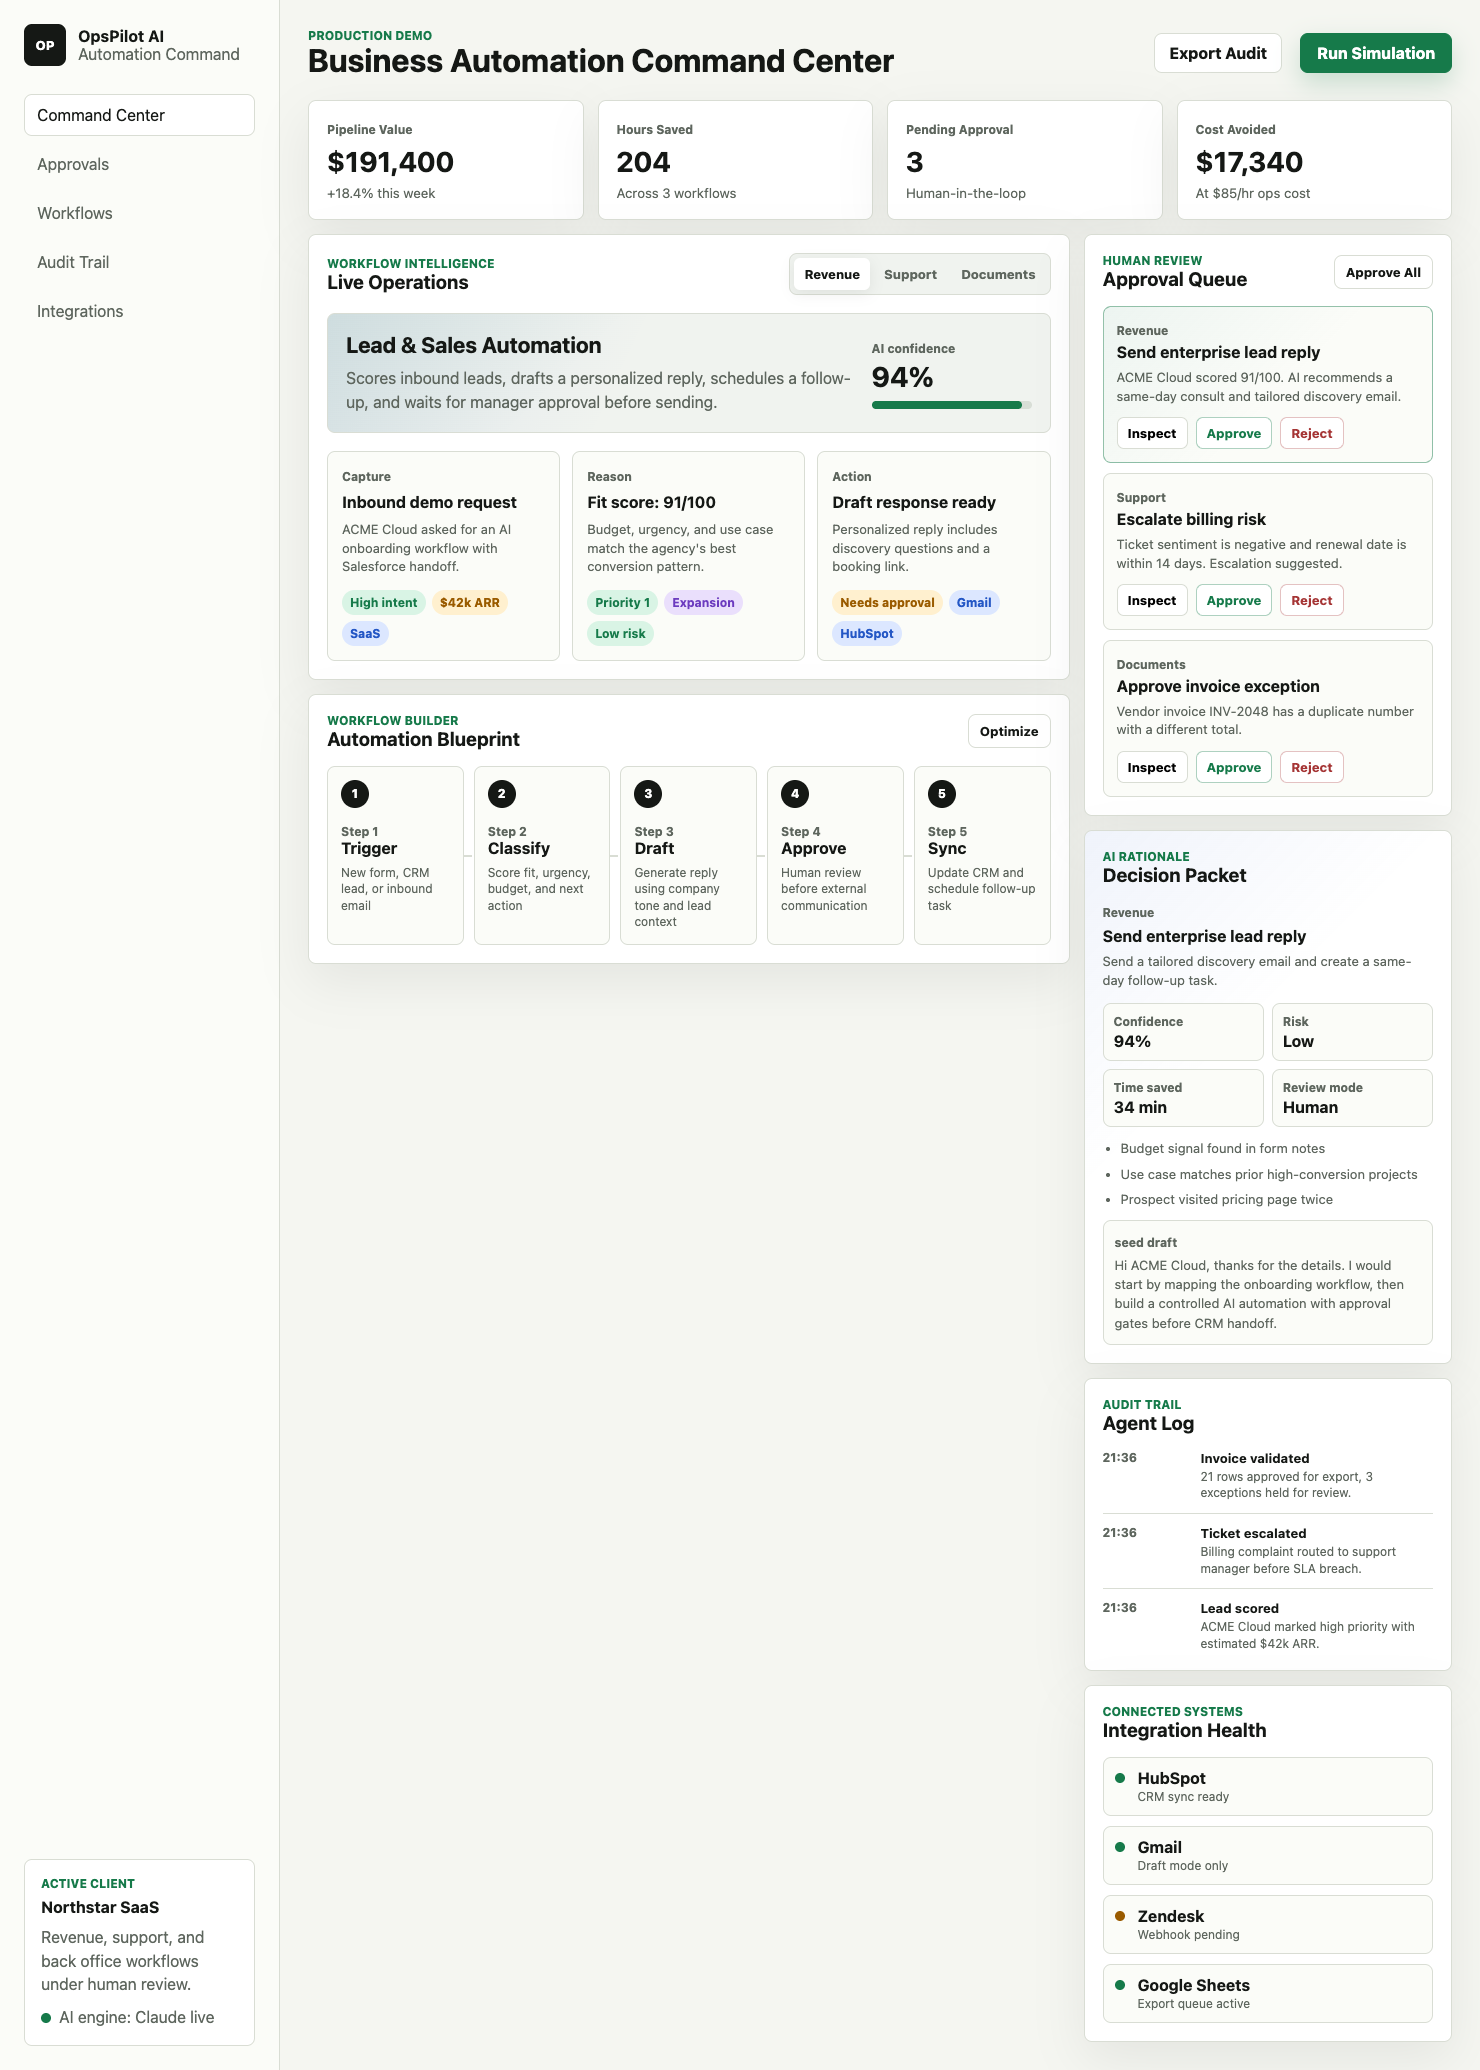
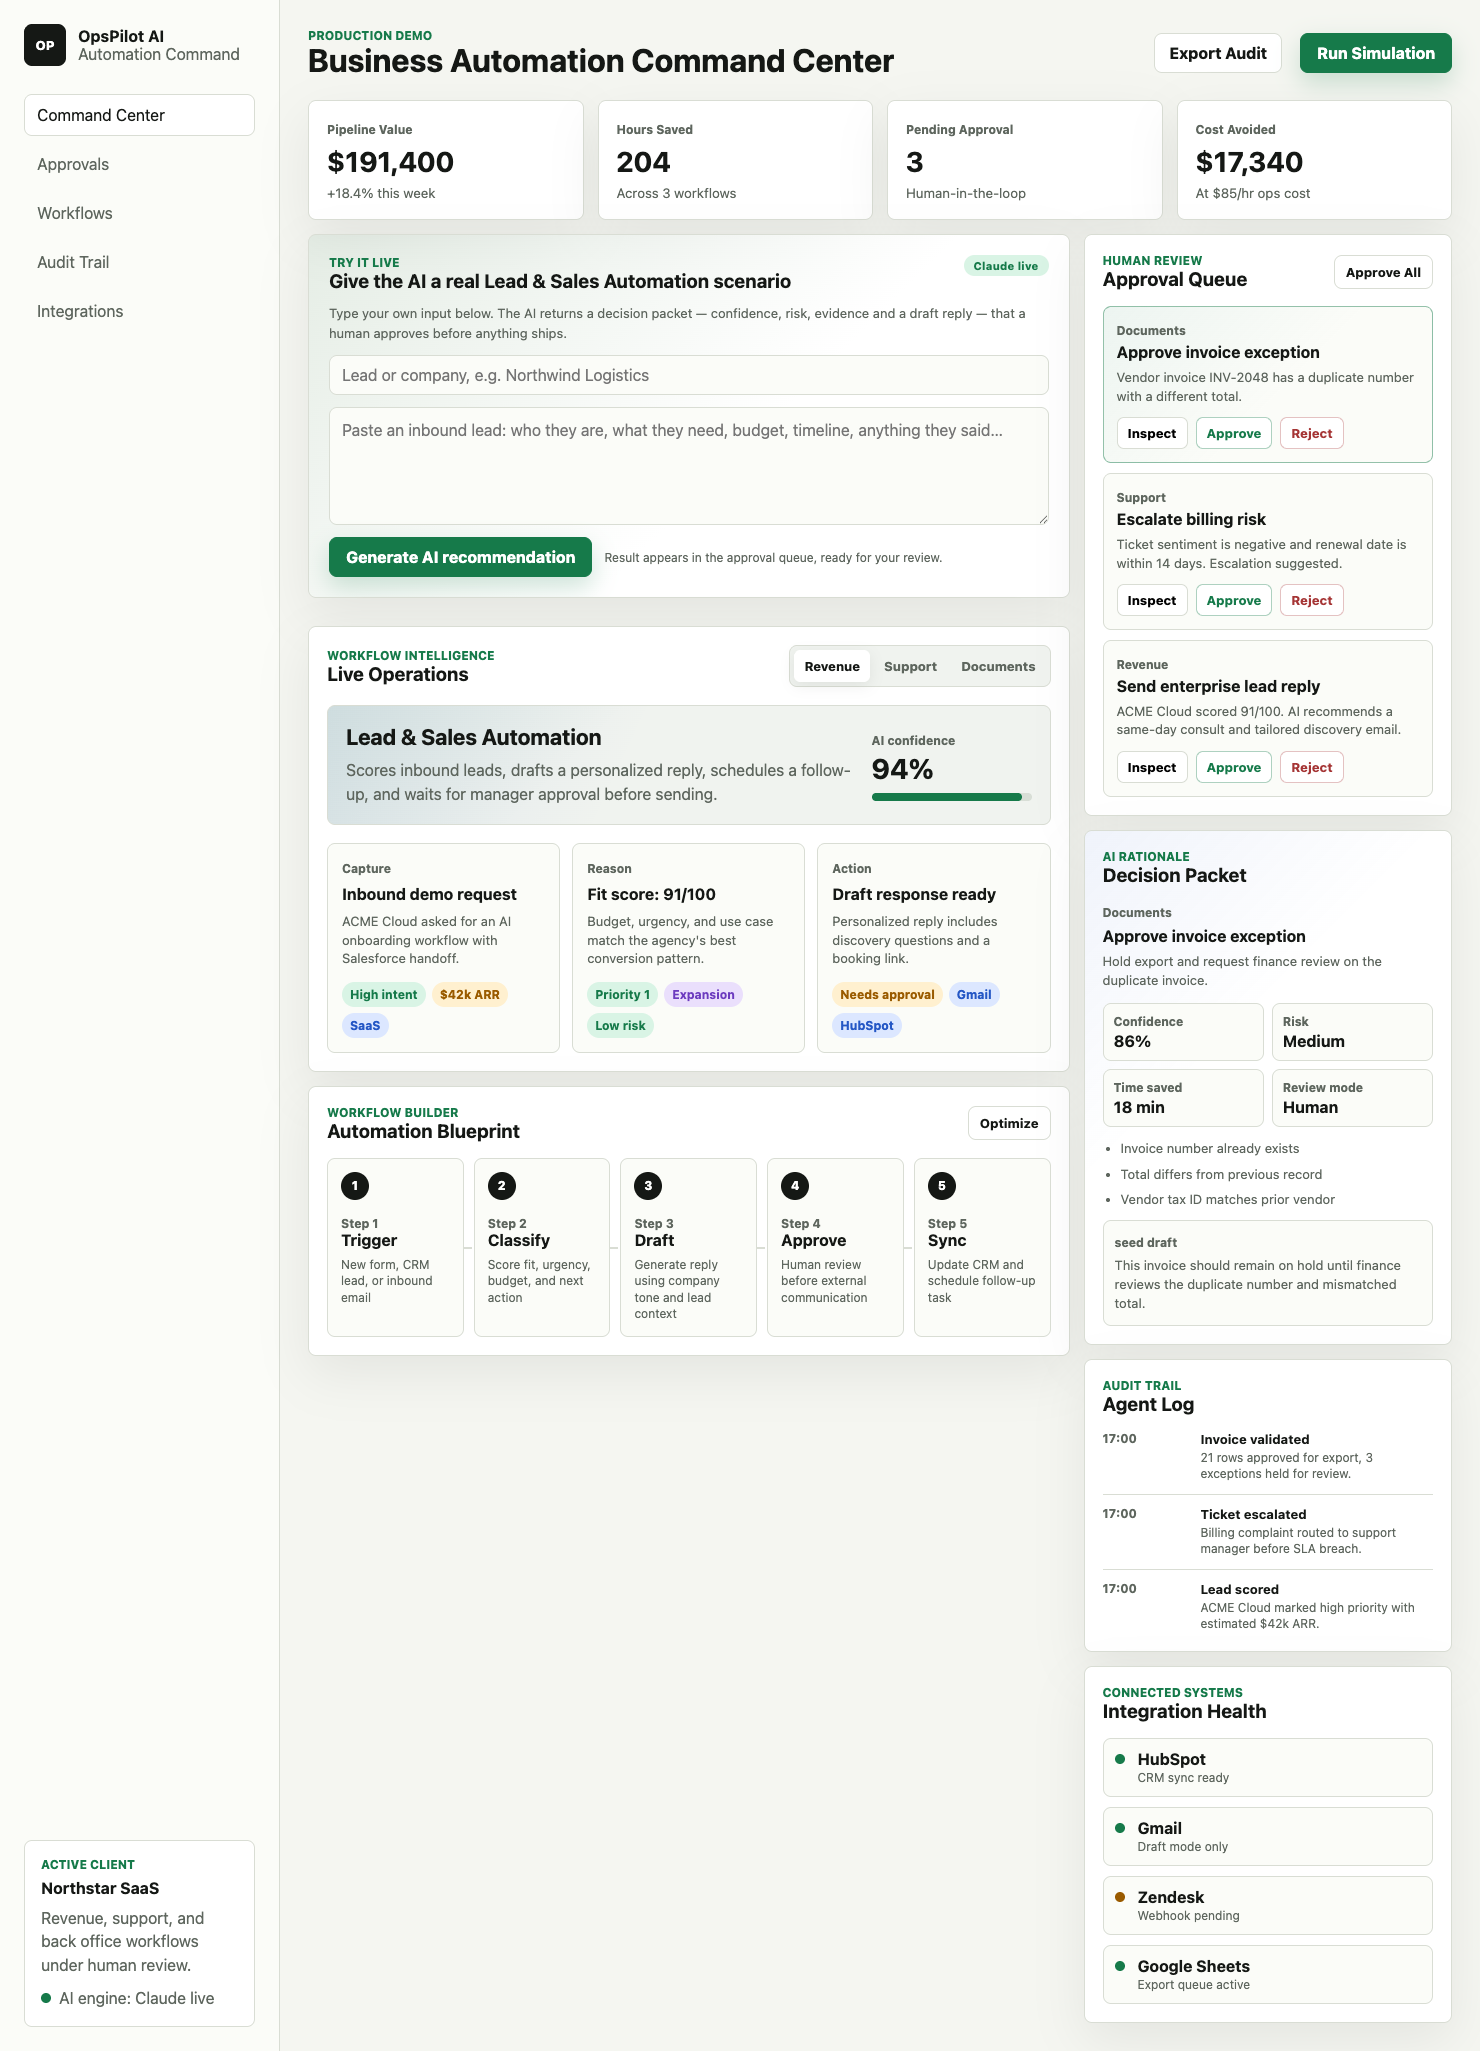
Document live AI console in README and refresh command-center screenshot

diff --git a/README.md b/README.md
@@ -12,6 +12,8 @@
 
 **▶ Live demo: [opspilot-ai-ngvm.onrender.com](https://opspilot-ai-ngvm.onrender.com)** — running on Render's free tier, so the first request after idle may take ~30–50s to wake.
 
+**Try it live:** type your own lead, support ticket, or document into the dashboard and watch Claude generate a real decision packet — confidence, risk, evidence, and a ready-to-send draft — that you approve or reject before anything ships.
+
 ![OpsPilot AI command center](docs/screenshots/01-command-center.png)
 
 | Approval queue & AI decision packet | Workflow blueprint | Audit trail |
@@ -70,6 +72,7 @@ this look like a platform a business could actually adopt.
 
 ## Features
 
+- **Live AI console** — type your own scenario and Claude returns a real, structured decision packet in the approval queue
 - Three end-to-end automation workflows (sales, support, documents)
 - AI-generated recommendations via the **Claude API** with structured outputs
 - Deterministic fallback so the demo is fully usable **without an API key**